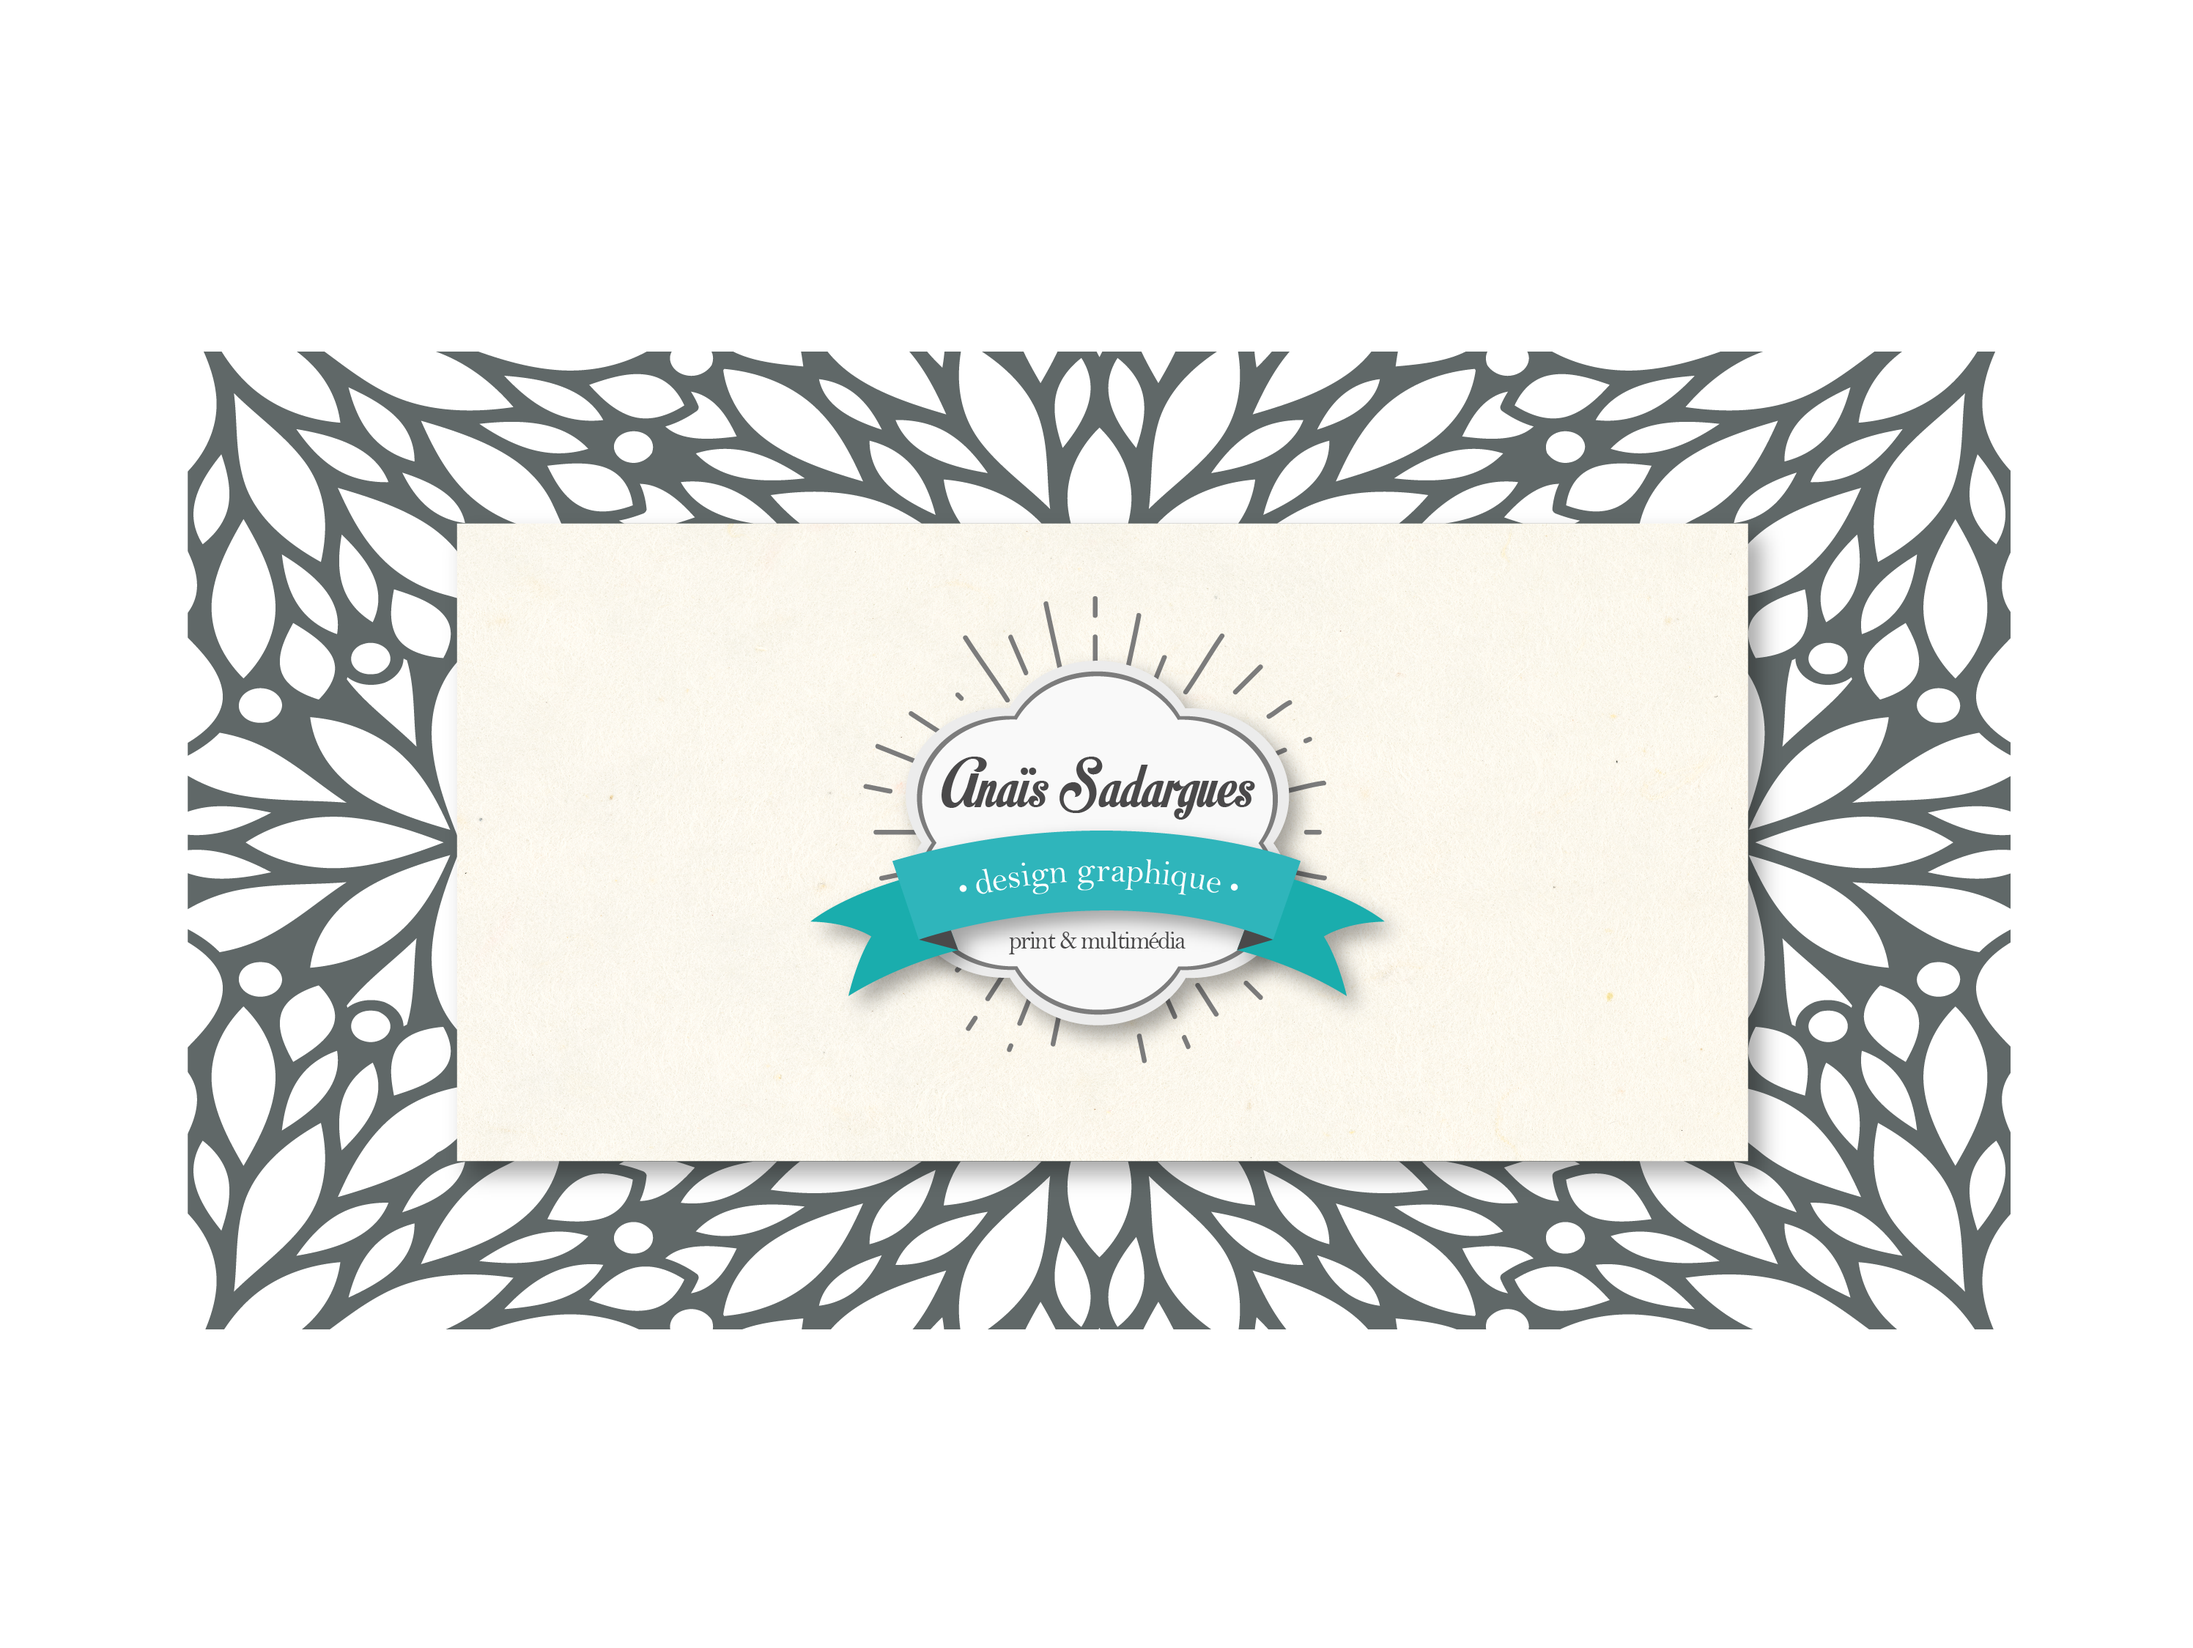
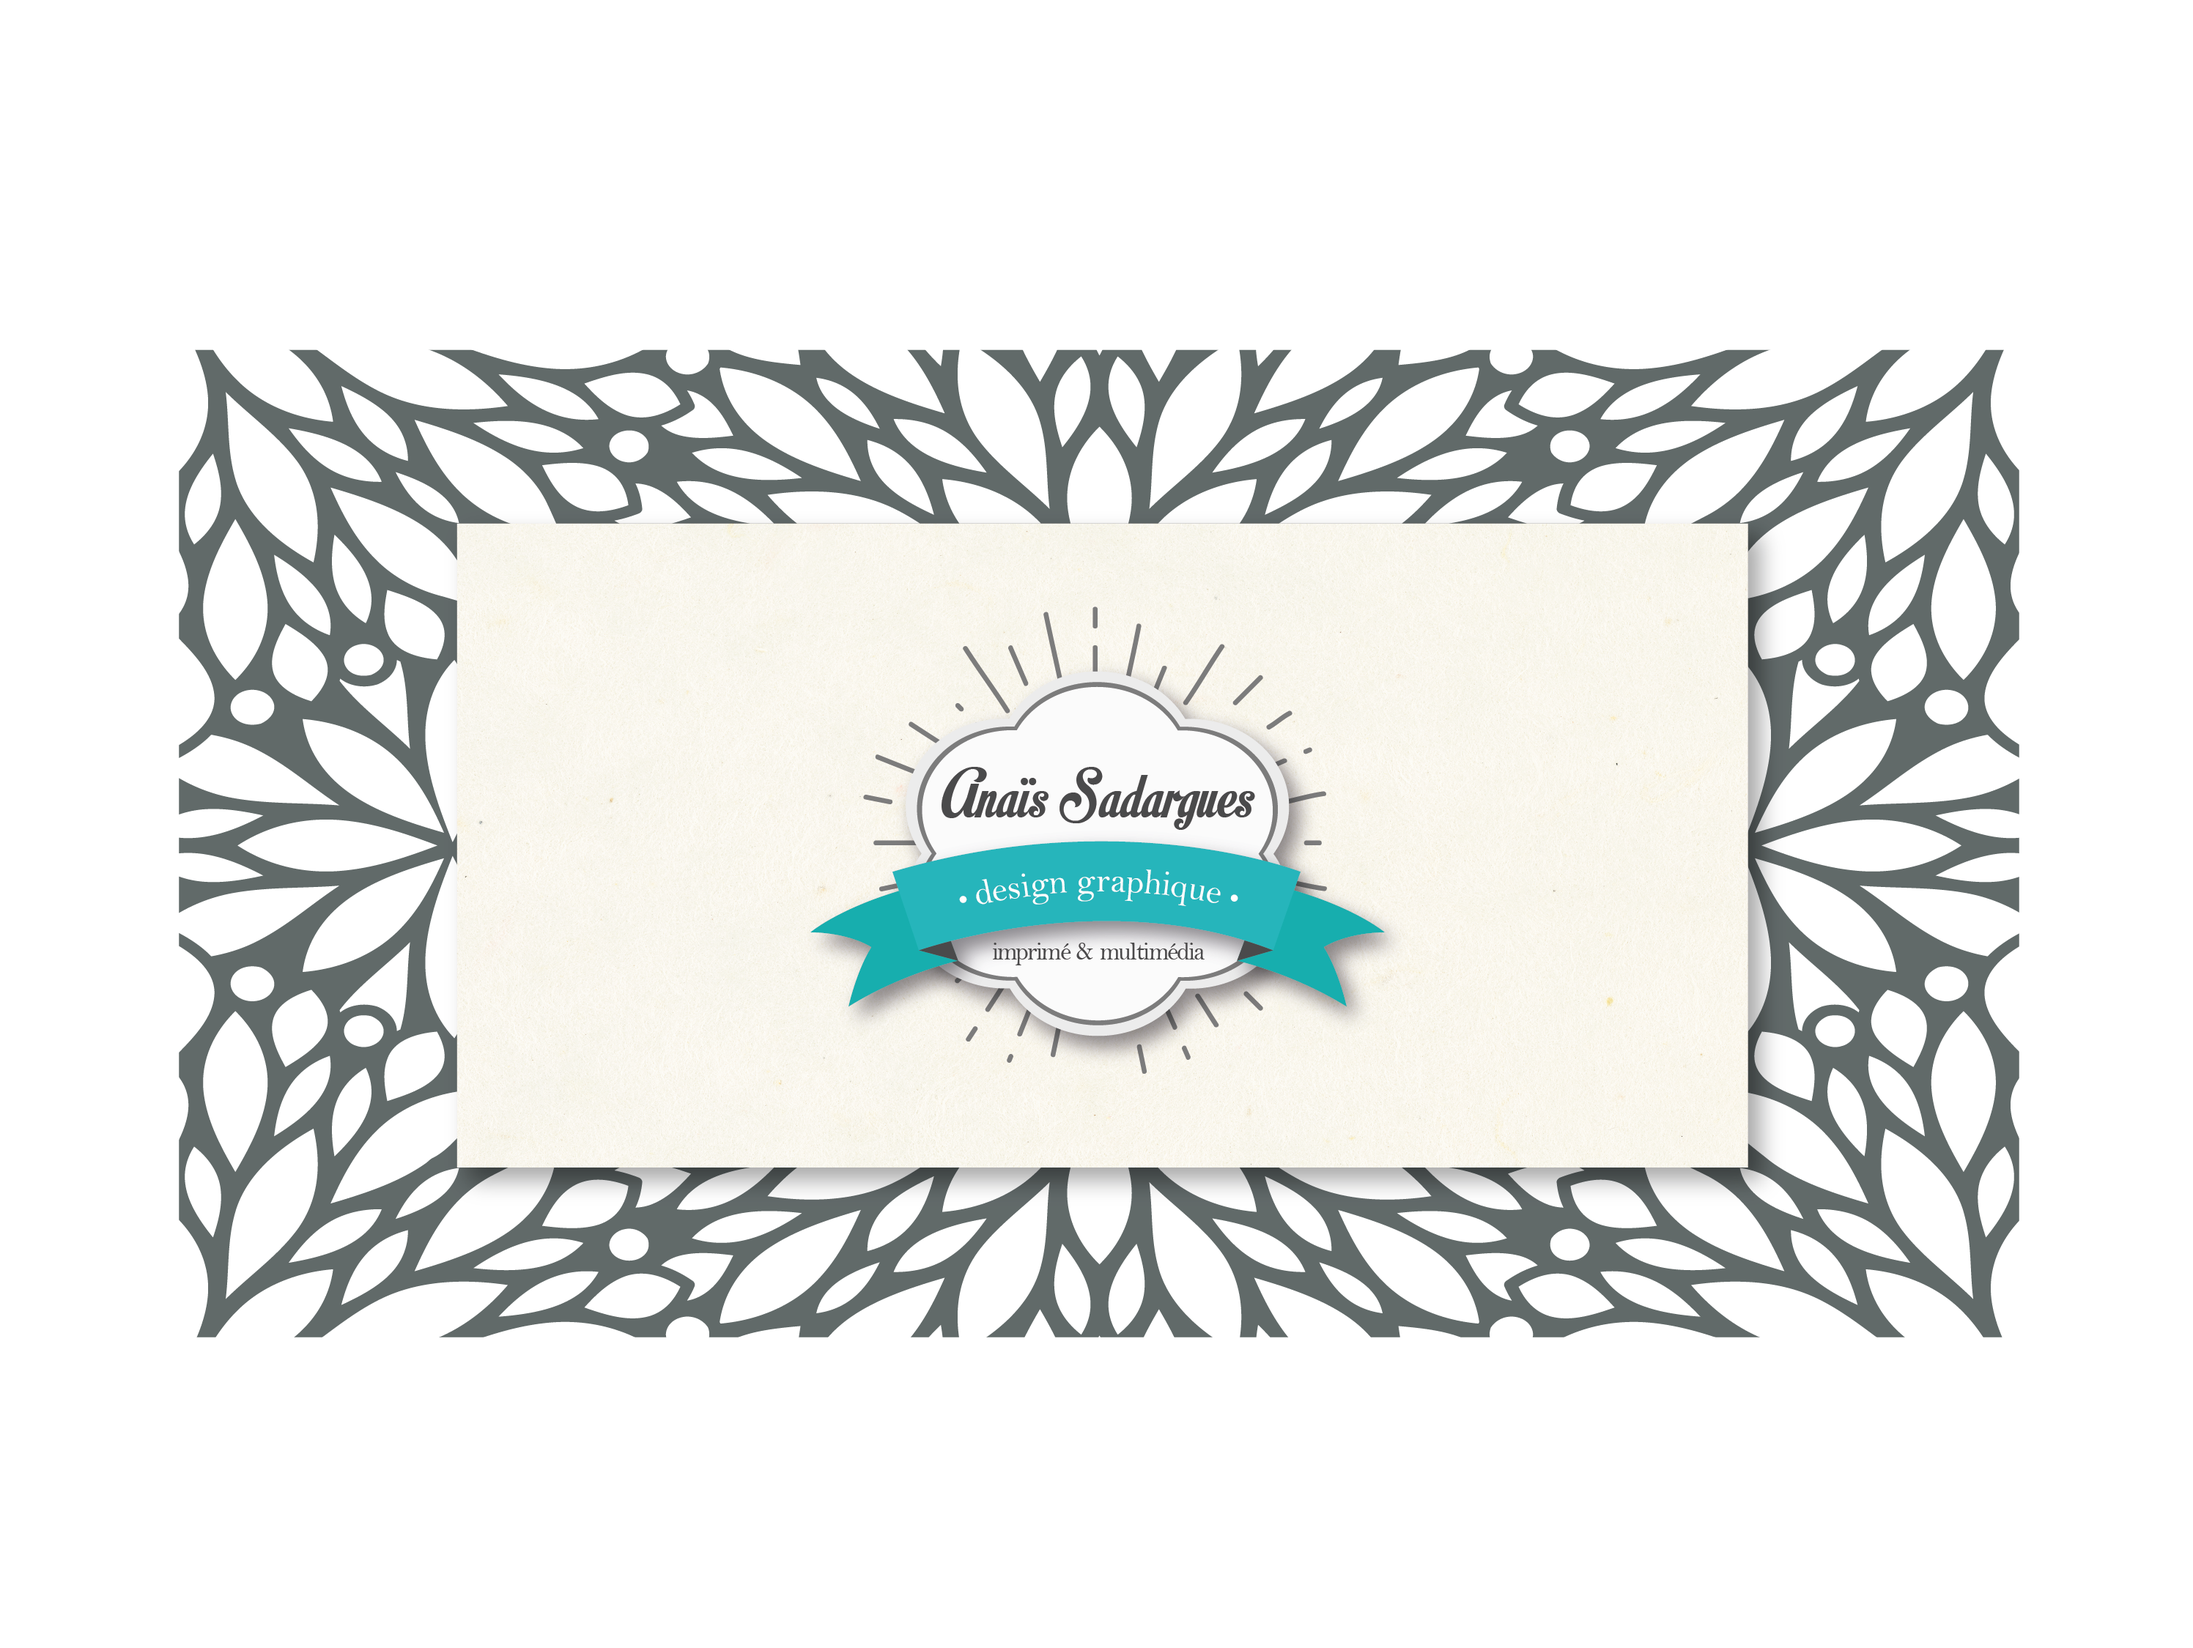
update26-06

diff --git a/en.html b/en.html
@@ -207,7 +207,7 @@
 
             <div class="service-icon"><i class="fa fa-camera"></i></div>
 
-            <h3>Photographies</h3>
+            <h3>Photographs</h3>
 
             <p>Shooting and editing photo, personal activity
 
@@ -293,19 +293,19 @@
 
             <!--==== Project Preview HTML ====-->
 
-            <div class="sr-only project-description" data-images="img/villa_aurelienne.jpg" >
+            <div class="sr-only project-description" data-images="img/villa_aurelienne_en.jpg" >
 
               <ul class="project_items">
                 <li>
-                  <span>Client:</span>
+                  <span>Customer:</span>
                   City of Fréjus
                 </li>
                 <li>
                   <span>Objective:</span>
 
-                  Contemporary art center visual identity creation and declination on different media:
-                  <br/>Poster / leaflet, business card, paper, invitation, ticket.
-                  <br/>see my other works for the logo animation and mobile app.
+                  Visual identity creation for contemporary art center and its declinations on different media:
+                  <br/>- poster / leaflet, <br/>- business card, <br/>- paper, <br/>- invitation, <br/>- ticket.
+                  <br/>Don't forget to check out my Villa Aurélienne logo animation and mobile app!
                 </li>
                 <li>
                   <span>Tools:</span>
@@ -333,7 +333,7 @@
 
             <div class="sr-only project-description" data-images="img/resine_web_1.jpg,img/resine_web_2.jpg,img/resine_web_3.jpg,img/resine_web_4.jpg" >
 
-            <p>Wordpress creation, organization in social and solidarity economy using digital creation as a way for social integration</p>
+            <p>Wordpress creation foer an organization in social and solidarity economy using digital creation as a way for social integration.</p>
 
             </div>
 
@@ -350,18 +350,18 @@
 
             <!--==== Project Preview HTML ====-->
 
-            <div class="sr-only project-description" data-images="img/passionata_vitrine_inno.jpg" >
+            <div class="sr-only project-description" data-images="img/passionata_vitrine_inno_en.jpg" >
 
             <ul class="project_items">
                 <li>
                   <span>Customer:</span>
-                  Passionata - female underweare creator
+                  Passionata, female underwear creator
                   </li>
                 <li>
                   <span>Objective:</span>
-                  Showcase scenographic design for a two weeks event in Bruxelles
-                  <br/>Preparation of all files for printing standards
-                  <br/>Respect of the budget
+                  Showcase scenographic design for a two weeks event in Bruxelles.
+                  <br/>Preparation of all files for printing standards.
+                  <br/>Respect of the budget.
                 </li>
                 <li>
                   <span>Tools:</span>
@@ -379,7 +379,7 @@
 
             <div class="hover-mask">
               <h2 class="project-title">Orcanta</h2><!--Project Title -->
-              <p>newsletters and advertising banners</p><!--Project Subtitle -->
+              <p>Newsletters and advertising banners</p><!--Project Subtitle -->
             </div>
 
             <!--==== Project Preview HTML ====-->
@@ -389,7 +389,7 @@
             <ul class="project_items">
                 <li>
                   <span>Customer:</span>
-                  Orcanta - female underweare creator
+                  Orcanta, female underwear creator
                 </li>
                 <li>
                   <span>Objective:</span>
@@ -460,7 +460,7 @@
                 </li>
                 <li>
                   <span>Objective:</span>
-                  Creation of a visual identity with variations on bags and stationery. Social networks visuals sreation (Instagram and Facebook)
+                  Creation of a visual identity with variations on bags and stationery. Social networks visuals creation (Instagram and Facebook).
                 </li>
                 <li>
                   <span>Tools:</span>
@@ -478,12 +478,12 @@
 
             <div class="hover-mask">
               <h2 class="project-title">Villa Aurélienne</h2><!--Project Title -->
-              <p>mobile app</p><!--Project Subtitle -->
+              <p>Mobile app</p><!--Project Subtitle -->
             </div>
 
             <!--==== Project Preview HTML ====-->
 
-            <div class="sr-only project-description" data-images="img/villa_aurelienne_app.gif" >
+            <div class="sr-only project-description" data-images="img/villa_aurelienne_app_en.gif" >
 
             <ul class="project_items">
                 <li>
@@ -492,7 +492,7 @@
                 </li>
                 <li>
                   <span>Objective:</span>
-                  Creation of the design of the art center application which allows the visitor to live a new interactive experience throughout their visit. Thanks to the "Visit" functionality he will have access on the one hand, to an augmented reality experience and on the other hand,
+                  Creation of the design of the art center application which allows the visitor to live a new interactive experience throughout their visit. Thanks to the "Visit" functionality he will have access on one hand, to an augmented reality experience and on the other hand,
                   scan QR codes, giving him access to "Artists" files which he will keep if he wishes in his favorites list.
                 </li>
                 <li>
@@ -572,7 +572,7 @@
 
             <!--==== Project Preview HTML ====-->
 
-            <div class="sr-only project-description" data-images="img/vie_rose.jpg" >
+            <div class="sr-only project-description" data-images="img/vie_rose_en.jpg" >
 
               <ul class="project_items">
                 <li>
@@ -599,7 +599,7 @@
 
             <div class="hover-mask">
               <h2 class="project-title">Bébé Consulting</h2><!--Project Title -->
-              <p>web communication</p><!--Project Subtitle -->
+              <p>Web communication</p><!--Project Subtitle -->
             </div>
 
             <!--==== Project Preview HTML ====-->
@@ -641,7 +641,7 @@
             <ul class="project_items">
                 <li>
                   <span>Customer:</span>
-                  Passionata - female underweare creator
+                  Passionata, female underwear creator
                 </li>
                 <li>
                   <span>Objective:</span>
@@ -667,7 +667,7 @@
 
             <!--==== Project Preview HTML ====-->
 
-            <div class="sr-only project-description" data-images="img/medical_laser.jpg" >
+            <div class="sr-only project-description" data-images="img/medical_laser_en.jpg" >
 
             <ul class="project_items">
                 <li>
@@ -707,7 +707,7 @@
                 </li>
                 <li>
                   <span>Objective:</span>
-                  creation of the New collection of souvenir t-shirts for children, Alps and Brittany area 
+                  Creation of the New collection of souvenir t-shirts for children, Alps and Brittany area 
                 </li>
                 <li>
                   <span>Tools:</span>
@@ -816,7 +816,7 @@
             <img class="img-responsive project-image" src="img/photographies_preview.jpg"  alt=""><!--Project thumb -->
 
             <div class="hover-mask">
-              <h2 class="project-title">Photographies</h2><!--Project Title -->
+              <h2 class="project-title">Photographs</h2><!--Project Title -->
               <p>Macro</p><!--Project Subtitle -->
             </div>
 
@@ -826,10 +826,10 @@
 
             <ul class="project_items">
                 <li>
-                  personal Photographs
+                  Personal Photographs
                 </li>
                 <li>
-                  <span>Outils :</span>
+                  <span>Tools:</span>
                   Nikon D3200, 18-55 and 80mm lens
                 </li>
               </ul>

diff --git a/index.html b/index.html
@@ -303,7 +303,7 @@
                 <li>
                   <span>Objectif :</span>
                   Création de l'identité visuelle du centre d'art contemporain et déclinaison sur différents supports :
-                  <br/>affichette dépliant, carte d'affaire, billetterie, invitation, papier à en-tête
+                  <br/>- affichette dépliant, <br/>- carte d'affaire, <br/>- billetterie, <br/>- invitation, <br/>- papier à en-tête
                 </li>
                 <li>
                   <span>Outils :</span>

diff --git a/js/scripts.js b/js/scripts.js
@@ -19,7 +19,7 @@ $(document).ready(function() {
   $('#home').height($(window).height()+50);
 
   if (window.location.pathname.includes('en.html')){
-    $.backstretch('./img/header_1.png');
+    $.backstretch('./img/header_en.png');
   }else{
     $.backstretch('./img/header_1.png');
   }
